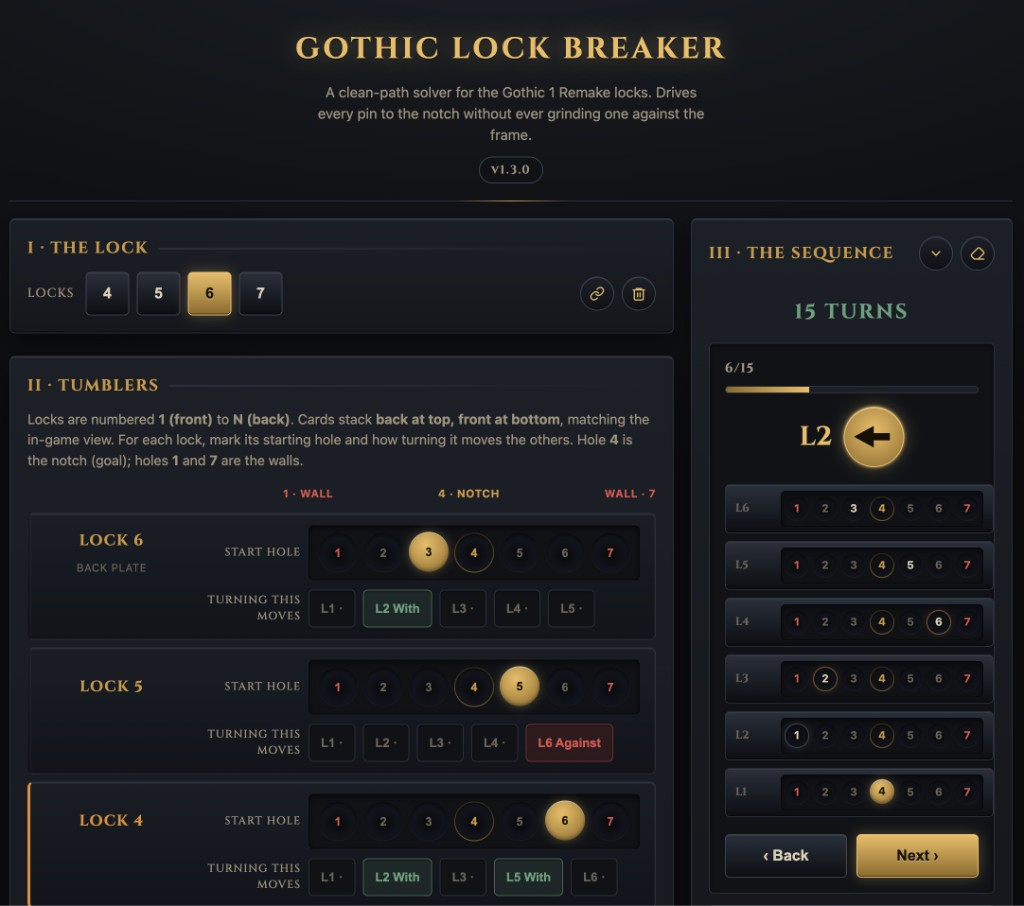
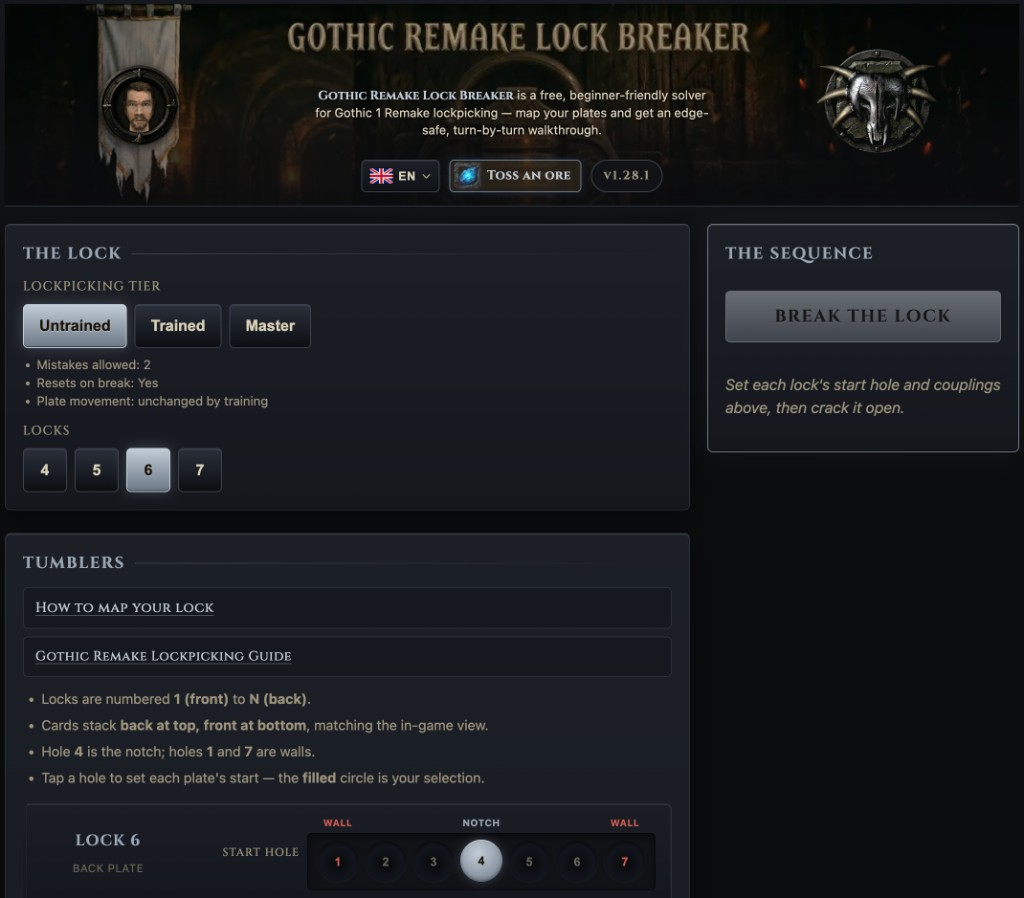
Release v1.28.2 — drop bare "No response" rejection noise from error reporting.

diff --git a/tests/transport.test.js b/tests/transport.test.js
@@ -23,6 +23,12 @@ test("isReportableError drops iOS in-app browser noise", () => {
   );
 });
 
+test("isReportableError drops bare 'No response' rejection noise", () => {
+  assert.equal(isReportableError("No response"), false);
+  assert.equal(isReportableError("Error: No response"), false);
+  assert.equal(isReportableError("Server returned No response body for /flags"), true);
+});
+
 test("isReportableError drops anchored noise carrying a PostHog error-type prefix", () => {
   assert.equal(isReportableError("Error: he"), false);
   assert.equal(isReportableError("TypeError: he"), false);

diff --git a/src/version.js b/src/version.js
@@ -1,4 +1,4 @@
-export const VERSION = "1.28.1";
+export const VERSION = "1.28.2";
 
 export const CHANGELOG_URL =
   "https://github.com/dsazz/gothic-remake-lockbreaker/blob/main/CHANGELOG.md";

diff --git a/src/analytics/transport.js b/src/analytics/transport.js
@@ -5,6 +5,7 @@ const IGNORED_MESSAGE_PATTERNS = [
   /showSearchResults/,
   /^he$/i,
   /WKWebView API client did not respond/,
+  /^No response$/i,
   /runtime\.sendMessage\(\).*Tab not found/i,
   /window\.ethereum\.selectedAddress/,
   /Can't find variable: __firefox__/,

diff --git a/README.md b/README.md
@@ -24,7 +24,7 @@ one against the frame.
 &nbsp;
 [![Tip jar](https://img.shields.io/badge/tip-Ko--fi-e9b969?style=for-the-badge)](https://ko-fi.com/swarmconductor)
 &nbsp;
-![Version](https://img.shields.io/badge/version-1.28.1-e9b969?style=for-the-badge)
+![Version](https://img.shields.io/badge/version-1.28.2-e9b969?style=for-the-badge)
 &nbsp;
 ![Dev deps only](https://img.shields.io/badge/npm-dev%20deps%20only-7fb47a?style=for-the-badge)
 &nbsp;
@@ -34,7 +34,7 @@ one against the frame.
 
 <br />
 
-**Current release: v1.28.1** — see [CHANGELOG.md](CHANGELOG.md) for what changed.
+**Current release: v1.28.2** — see [CHANGELOG.md](CHANGELOG.md) for what changed.
 
 **Localized links for press and communities:** [German (`?lang=de`)](https://gothiclockbreaker.com/?lang=de) · [Polish (`?lang=pl`)](https://gothiclockbreaker.com/?lang=pl)
 
@@ -95,7 +95,12 @@ State space tops out at `7^7 ≈ 820,000` states, so it solves instantly.
 ## Using it
 
 <div align="center">
-<img src="assets/app-screenshot.png" alt="Gothic Lock Breaker on desktop: horizontal tumbler rows with start holes and coupling chips, sticky sequence sidebar with groove readout walkthrough" width="62%" />
+<table>
+<tr>
+<td align="center" width="62%"><img src="assets/app-screenshot.png" alt="Gothic Lock Breaker on desktop: horizontal tumbler rows with start holes and coupling chips, plus a sticky 'The Sequence' sidebar" width="100%" /></td>
+<td align="center" width="38%"><img src="assets/app-screenshot-mobile.png" alt="Gothic Lock Breaker on mobile: stacked The Lock, tier and lock-count controls, and tumbler mapping" width="100%" /></td>
+</tr>
+</table>
 </div>
 
 <br />

diff --git a/AGENTS.md b/AGENTS.md
@@ -4,6 +4,12 @@ Vanilla ES-module SPA for Gothic 1 Remake lockpicking. Vite builds to `dist/`; G
 
 Read this whole file before non-trivial changes. Product context lives in [README.md](README.md).
 
+## Upstream game version
+
+Solver validated against Gothic 1 Remake v1.0.2 (CL 169494). Patches 1.0.1/1.0.2 introduced no lockpicking mechanic changes — only an in-game difficulty indicator (1.0.1) and a small XP reward on solve (1.0.2), neither modeled here. Audit the next patch as a diff against this baseline.
+
+Changelog source: `https://files.gothic-game.com/changelogs/G1R_Patch_<version>.txt` (e.g. [1.0.2](https://files.gothic-game.com/changelogs/G1R_Patch_1.0.2.txt), [1.0.1](https://files.gothic-game.com/changelogs/G1R_Patch_1.0.1.txt)).
+
 ## Commands
 
 ```bash

diff --git a/CHANGELOG.md b/CHANGELOG.md
@@ -8,6 +8,12 @@ and this project adheres to [Semantic Versioning](https://semver.org/spec/v2.0.0
 **Release rule:** bump `VERSION` in `src/version.js`, add a dated entry below,
 and update the `Current release` line in `README.md` — one commit, one deploy.
 
+## [1.28.2] - 2026-06-21
+
+### Fixed
+
+- Error reporting no longer treats bare "No response" promise rejections — background noise from browser extensions and aborted requests — as real errors, so the error feed stays focused on genuine app failures.
+
 ## [1.28.1] - 2026-06-21
 
 ### Changed